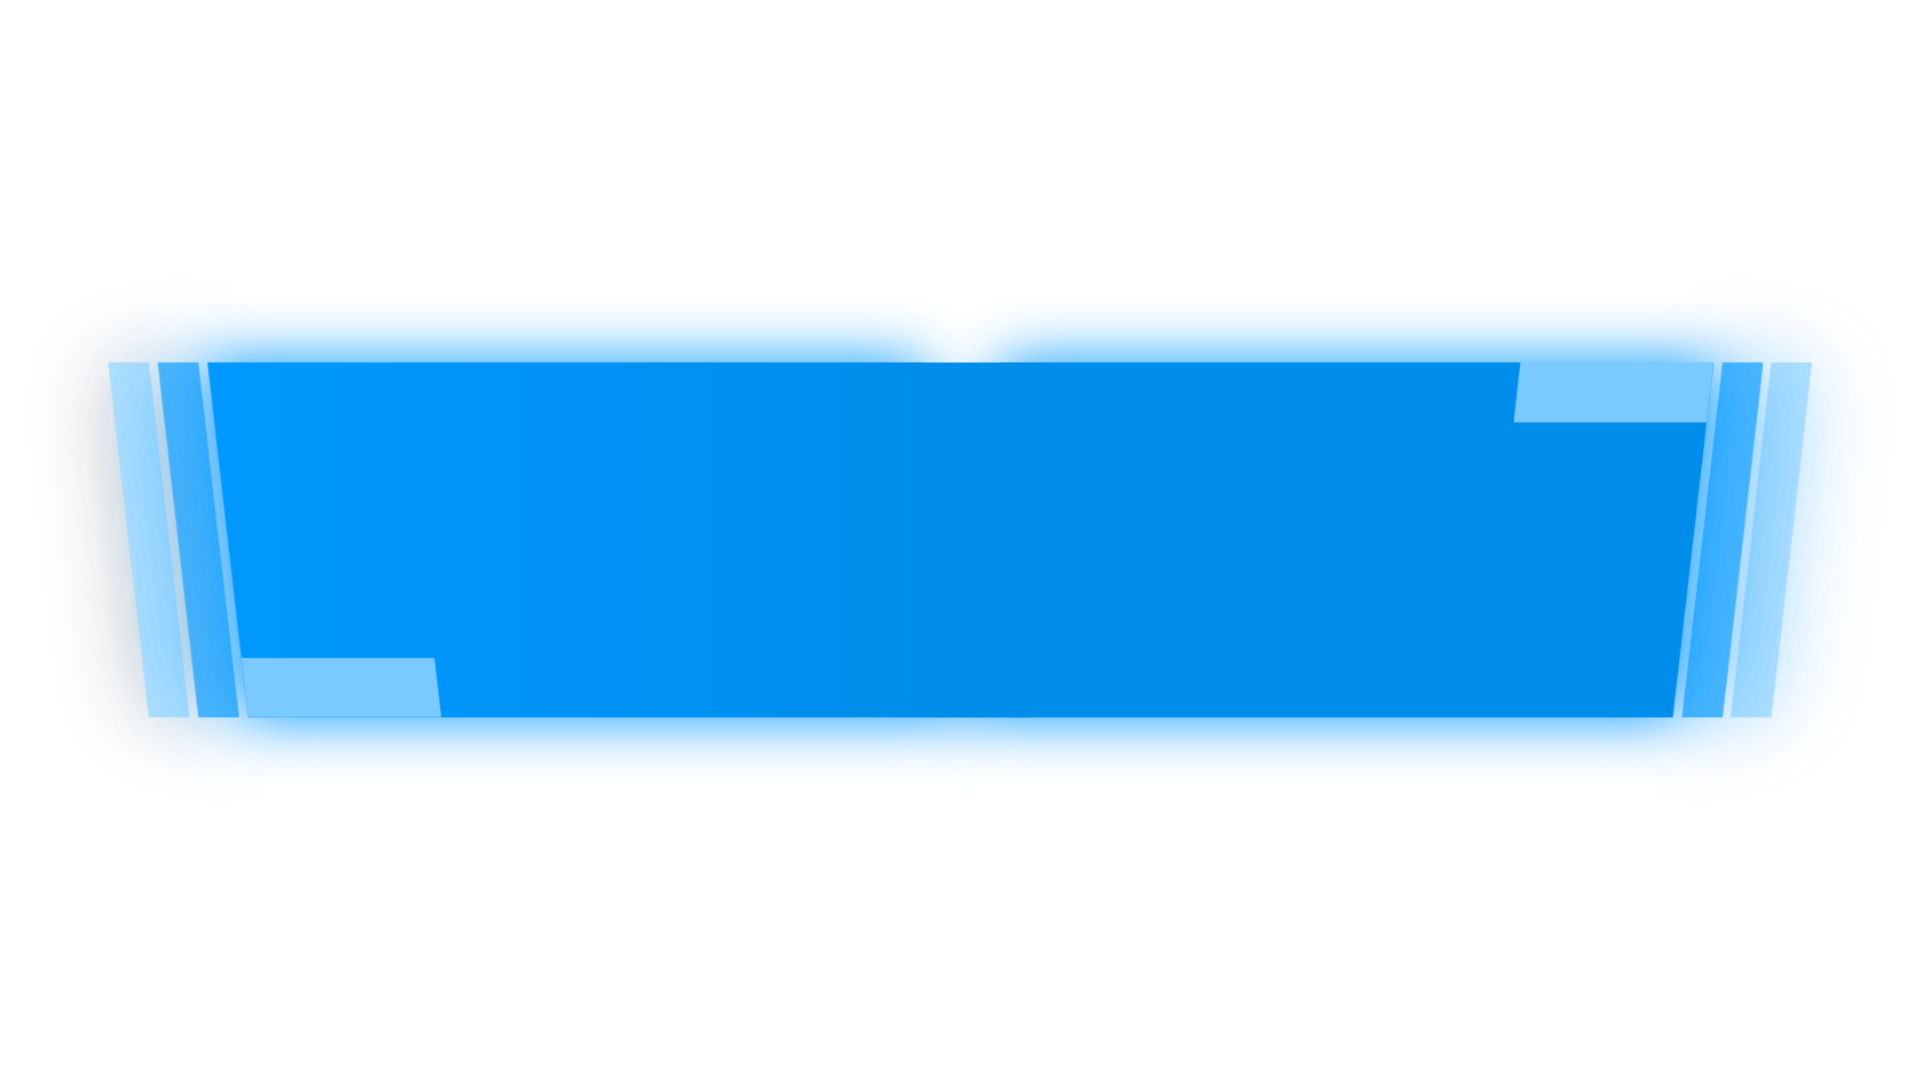
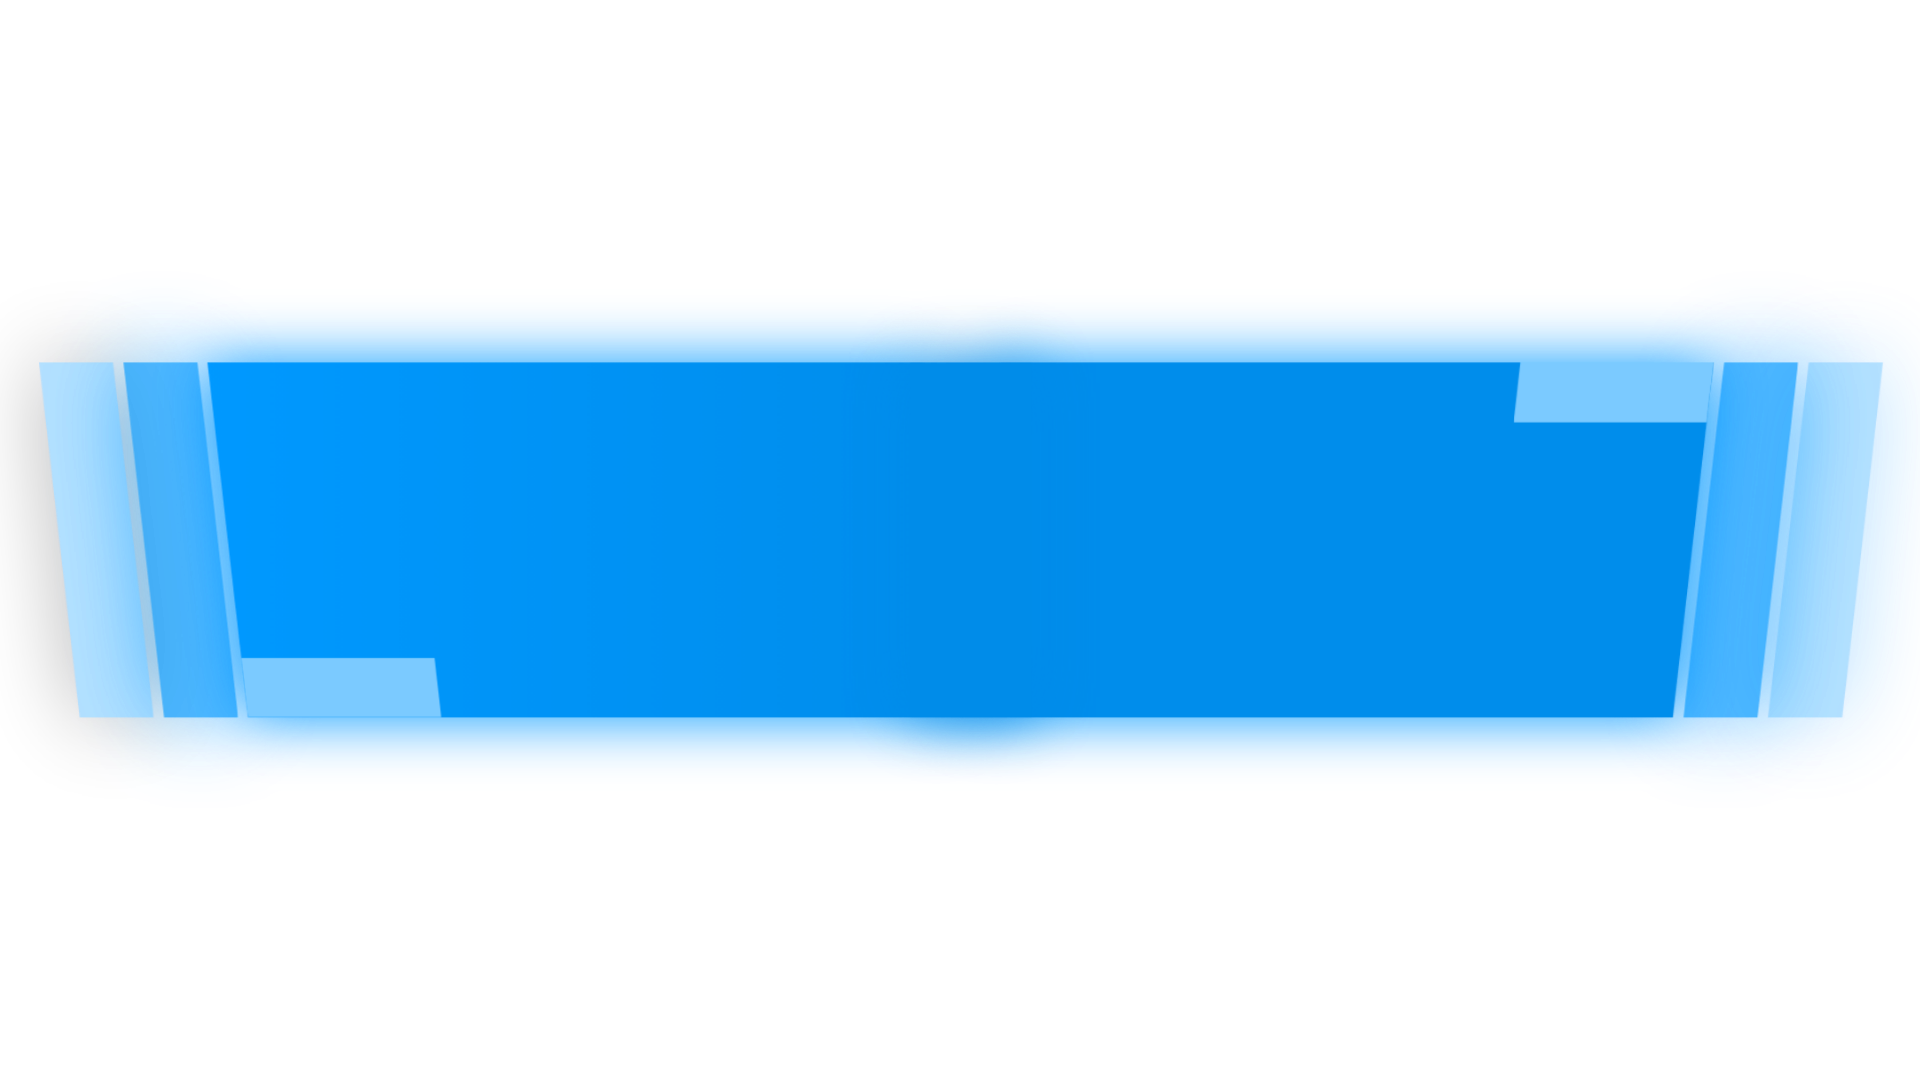
Updated unique skins

diff --git a/styles/character_card.css b/styles/character_card.css
@@ -441,7 +441,7 @@
 }
 
 .cyber-card img {
-  width: 300px;
+  height: 300px;
 }
 
 .cyber-card-indicator {
@@ -671,5 +671,43 @@
   }
   .cyber-render-img {
     max-height: 300px;
+  }
+}
+
+.unique-skin-star {
+  position: absolute;
+  top: 15px;
+  right: 15px;
+  width: 28px;
+  height: 28px;
+  z-index: 10;
+
+  clip-path: polygon(
+    50% 0%,
+    63% 37%,
+    100% 50%,
+    63% 63%,
+    50% 100%,
+    37% 63%,
+    0% 50%,
+    37% 37%
+  );
+
+  background:
+    radial-gradient(circle, #ffffff 10%, transparent 50%),
+    linear-gradient(135deg, #00f0ff 0%, #ff007f 100%);
+
+  animation: skinStarPulse 3s infinite ease-in-out;
+}
+
+@keyframes skinStarPulse {
+  0%,
+  100% {
+    transform: scale(1);
+    filter: drop-shadow(0 0 5px #00f0ff) drop-shadow(0 0 10px #ff007f);
+  }
+  50% {
+    transform: scale(1.15);
+    filter: drop-shadow(0 0 8px #00f0ff) drop-shadow(0 0 16px #ff007f);
   }
 }

diff --git a/heroes/heroes.js b/heroes/heroes.js
@@ -32,6 +32,8 @@ const heroes = [
     medkitType: medkitTypes.None,
     hasUniqueSkin: true,
     uniqueSkinName: "Deathglow Lynx",
+    uniqueSkinGifSrc: "../skins/unique_lynx_gif.gif",
+    uniqueSkinAbilityImage: "../skins/unique_lynx_ability.png",
   },
   {
     name: "Twinkle",
@@ -80,6 +82,7 @@ function generateHeroesCards() {
         <div class="content-card-badge">
           <img src="../classes/${hero.class.toLowerCase()}.png" alt="${hero.class}-icon">
         </div>
+        <div class="unique-skin-star ${hero.hasUniqueSkin ? "" : "hidden"}" title="Unique Skin"></div>
         <img src="../skins/${hero.name.toLowerCase()}.png" alt="${hero.name}-card">
         <div class="content-card-name">${hero.name}</div>
     `;

diff --git a/changelog.md b/changelog.md
@@ -48,3 +48,9 @@ Let's build the best knowledge base together!
 [#FF7034]\[#FF7034\][/#] <br>
 [#8a2be2]\[#8a2be2\][/#] <br>
 [#bf3eff]\[#bf3eff\][/#] <br>
+
+--
+
+# Credits
+
+[#FF343E]RogueNinja[/#] - Deathglow Lynx Skin presentation - https://www.youtube.com/shorts/pcmg15ZL6hM